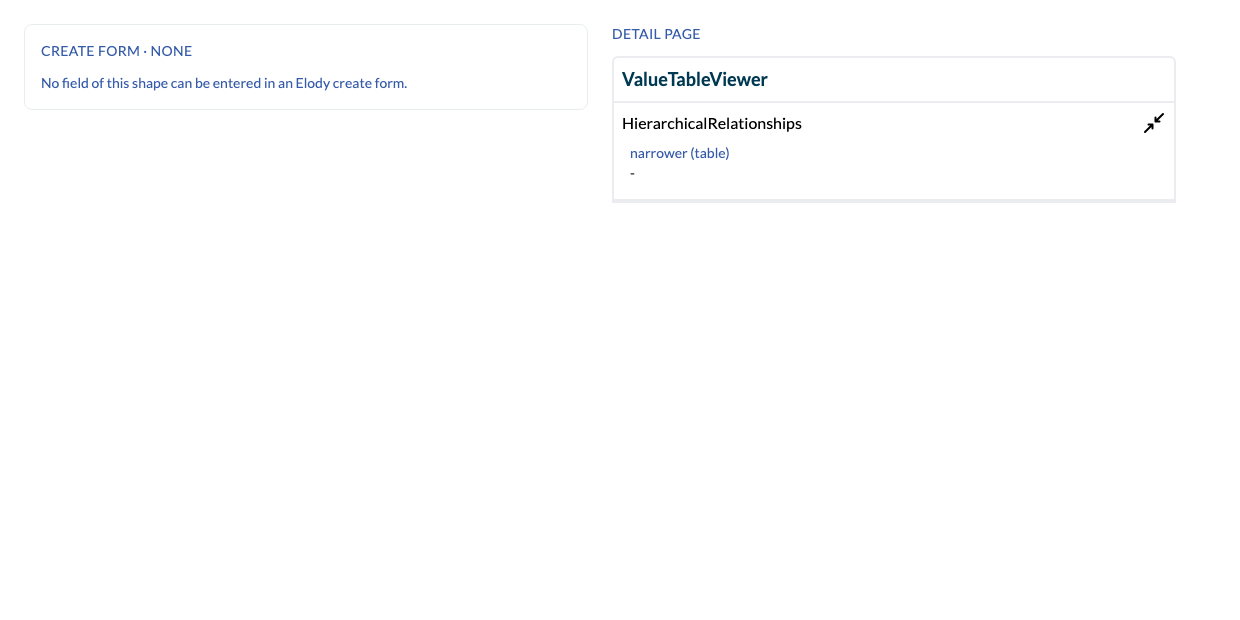
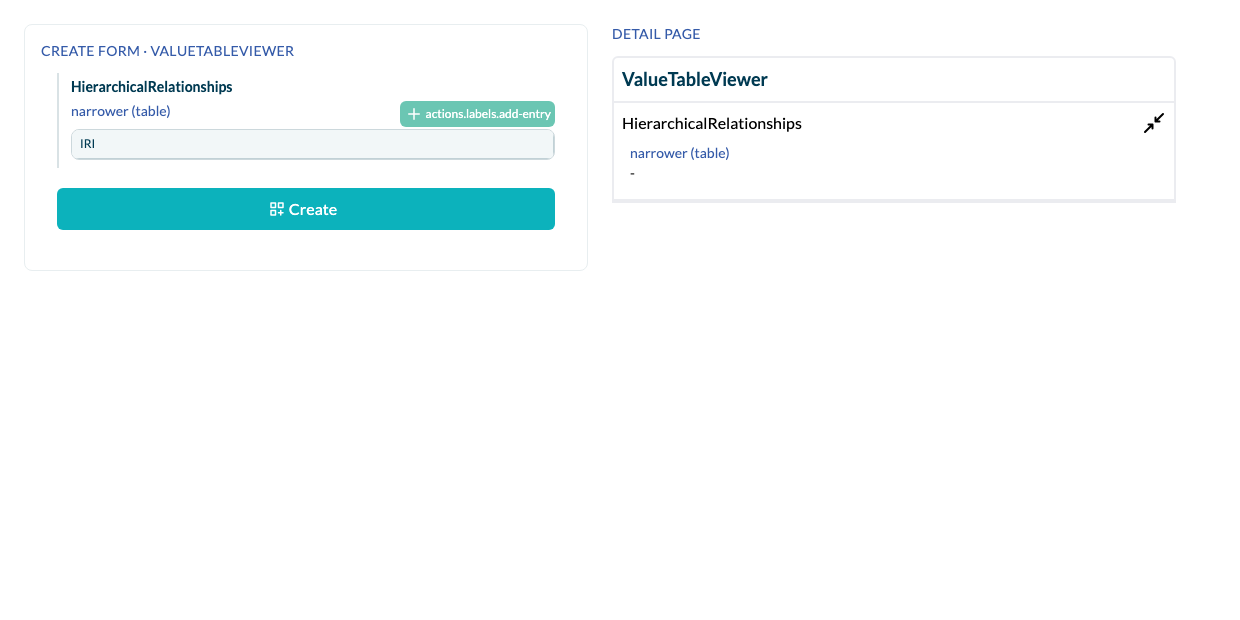
docs: example 05 rendered, inverse paths without sh:class typed as IRI

Changed region(s): [[0.0306, 0.1226, 0.4597, 0.3984], [0.1226, 0.0613, 0.2452, 0.0919]]

diff --git a/docs/services/elody-frontend/shacl-ui/examples.md b/docs/services/elody-frontend/shacl-ui/examples.md
@@ -29,7 +29,7 @@ changes.
 | [02](#example-02-getting-started) | Sample Shapes Graph | `getting-started` | <Badge type="tip" text="Rendered" /> |
 | [03](#example-03-getting-started) | Sample Data Graph with Related Resource | `getting-started` | <Badge type="tip" text="Rendered" /> |
 | [04](#example-04-global-configuration) | Sample Instance Data | `global-configuration` | <Badge type="tip" text="Rendered" /> |
-| [05](#example-05-view-predicate-paths) | Predicate and inverse paths in view mode | `view-predicate-paths` | <Badge type="warning" text="Rendered in part" /> |
+| [05](#example-05-view-predicate-paths) | Predicate and inverse paths in view mode | `view-predicate-paths` | <Badge type="tip" text="Rendered" /> |
 | [06](#example-06-view-complex-paths) | Complex paths in view mode | `view-complex-paths` | <Badge type="info" text="Left out by choice" /> |
 | [07](#example-07-edit-predicate-paths) | Predicate and inverse paths in edit mode | `edit-predicate-paths` | <Badge type="tip" text="Rendered" /> |
 | [08](#example-08-edit-alternative-paths) | Alternative paths in edit mode | `edit-alternative-paths` | <Badge type="info" text="Left out by choice" /> |
@@ -1470,14 +1470,14 @@ fragment minimalSpecExample04 on BaseEntity {
 
 ## 05 · Predicate and inverse paths in view mode {#example-05-view-predicate-paths}
 
-<Badge type="warning" text="Rendered in part" /> Spec section [`view-predicate-paths`](https://w3c.github.io/data-shapes/shacl12-ui/#view-predicate-paths)
+<Badge type="tip" text="Rendered" /> Spec section [`view-predicate-paths`](https://w3c.github.io/data-shapes/shacl12-ui/#view-predicate-paths)
 
 ![Predicate and inverse paths in view mode rendered by Elody](/images/shacl-ui/05-view-predicate-paths.png)
 
 **What Elody did with it**
 
-- *Not supported:* "Department": inverse path without sh:class; shown on the detail page, left out of the form (picking a value needs the related type)
-- *Note:* "Department" is used as the card title (the shapes declare no shui:LabelRole)
+- *Note:* "Name" is used as the card title (the shapes declare no shui:LabelRole)
+- *Note:* "Department": inverse path without sh:class: the IRI is typed in (as shui:IRIEditor) and stored as the relation's key
 
 ::: details SHACL UI shapes (from the spec)
 ````turtle
@@ -1544,7 +1544,7 @@ ui:example05-create
   a elody:Form ;
   rdfs:label "Predicate and inverse paths in view mode" ;
   elody:queryName "SpecExample05CreateForm" ;
-  elody:shape [ sh:property ui:example05-name ] ;
+  elody:shape [ sh:property ui:example05-isMemberFor , ui:example05-name ] ;
   elody:submit
     [ rdfs:label "actions.labels.create" ;
     elody:actionQuery "CreateEntity" ;
@@ -1562,13 +1562,13 @@ ui:example05-details
 
 ui:example05-isMemberFor
   sh:path [ sh:inversePath ex:member ] ;
-  sh:name "Department" ;
-  shui:propertyRole shui:LabelRole .
+  sh:name "Department" .
 
 ui:example05-name
   sh:path foaf:name ;
   sh:name "Name" ;
-  sh:datatype xsd:string .
+  sh:datatype xsd:string ;
+  shui:propertyRole shui:LabelRole .
 ````
 :::
 ::: details GraphQL (generated by `elody-ui generate`)
@@ -1661,6 +1661,13 @@ fragment minimalSpecExample05 on BaseEntity {
       label(input: "Predicate and inverse paths in view mode")
       name: formTab {
         formFields {
+          isMemberFor: metaData {
+            label(input: "Department")
+            key(input: "isMemberFor")
+            inputField(type: specExample05IsMemberForField) {
+              ...inputfield
+            }
+          }
           name: metaData {
             label(input: "Name")
             key(input: "name")
@@ -1690,6 +1697,21 @@ fragment minimalSpecExample05 on BaseEntity {
     "isMetadataField": true,
     "canCreateEntityFromOption": true,
     "multiple": true
+  },
+  "specExample05IsMemberForField": {
+    "type": "inputFieldWithSubFields",
+    "isMetadataField": false,
+    "relationType": "isMemberFor",
+    "subFields": [
+      {
+        "label": "IRI",
+        "key": "key",
+        "inputField": {
+          "type": "text",
+          "isMetadataField": false
+        }
+      }
+    ]
   }
 }
 ````
@@ -1745,7 +1767,7 @@ ex:book1 a ex:Book ;
 
 **What Elody did with it**
 
-- *Note:* "Department" is used as the card title (the shapes declare no shui:LabelRole)
+- *Note:* "Name" is used as the card title (the shapes declare no shui:LabelRole)
 
 ::: details SHACL UI shapes (from the spec)
 ````turtle
@@ -1832,13 +1854,13 @@ ui:example07-details
 ui:example07-isMemberFor
   sh:path [ sh:inversePath ex:member ] ;
   sh:name "Department" ;
-  sh:class ex:Department ;
-  shui:propertyRole shui:LabelRole .
+  sh:class ex:Department .
 
 ui:example07-name
   sh:path foaf:name ;
   sh:name "Name" ;
-  sh:datatype xsd:string .
+  sh:datatype xsd:string ;
+  shui:propertyRole shui:LabelRole .
 ````
 :::
 ::: details GraphQL (generated by `elody-ui generate`)
@@ -2258,7 +2280,7 @@ fragment minimalSpecExample10 on BaseEntity {
 
 **What Elody did with it**
 
-- *Note:* "Employer" is used as the card title (the shapes declare no shui:LabelRole)
+- *Note:* "First Name" is used as the card title (the shapes declare no shui:LabelRole)
 
 ::: details SHACL UI shapes (from the spec)
 ````turtle
@@ -2348,12 +2370,12 @@ ui:example11-details
 ui:example11-employer
   sh:path ex:employer ;
   sh:name "Employer"@en ;
-  sh:class ex:Organization ;
-  shui:propertyRole shui:LabelRole .
+  sh:class ex:Organization .
 
 ui:example11-firstName
   sh:path foaf:firstName ;
-  sh:name "First Name"@en , "Vorname"@de .
+  sh:name "First Name"@en , "Vorname"@de ;
+  shui:propertyRole shui:LabelRole .
 ````
 :::
 ::: details GraphQL (generated by `elody-ui generate`)
@@ -6422,8 +6444,8 @@ fragment minimalSpecExample30 on BaseEntity {
 **What Elody did with it**
 
 - *Not supported:* "narrower (table)": Elody has no shui:ValueTableViewer; shown as plain text
-- *Not supported:* "narrower (table)": inverse path without sh:class; shown on the detail page, left out of the form (picking a value needs the related type)
 - *Note:* "narrower (table)" is used as the card title (the shapes declare no shui:LabelRole)
+- *Note:* "narrower (table)": inverse path without sh:class: the IRI is typed in (as shui:IRIEditor) and stored as the relation's key
 
 ::: details SHACL UI shapes (from the spec)
 ````turtle
@@ -6506,6 +6528,7 @@ ui:example31
         elody:panel skos:HierarchicalRelationships ] ;
       elody:size elody:Width100 ] ] ;
   elody:documentName "SpecExample31" ;
+  elody:form ui:example31-create ;
   elody:viewMode [ elody:mode elody:ListView ] .
 
 ex:Concept-broader-inverse
@@ -6557,6 +6580,17 @@ skos:HierarchicalRelationships
   elody:alias "hierarchicalRelationships" ;
   elody:collapsed false ;
   elody:panelKind elody:MetadataPanel .
+
+ui:example31-create
+  a elody:Form ;
+  rdfs:label "ValueTableViewer" ;
+  elody:queryName "SpecExample31CreateForm" ;
+  elody:shape [ sh:property ex:Concept-broader-inverse ] ;
+  elody:submit
+    [ rdfs:label "actions.labels.create" ;
+    elody:actionQuery "CreateEntity" ;
+    elody:creationType "BaseEntity" ;
+    elody:icon "Create" ] .
 ````
 :::
 ::: details GraphQL (generated by `elody-ui generate`)
@@ -6630,6 +6664,57 @@ fragment minimalSpecExample31 on BaseEntity {
       }
     }
   }
+
+  query SpecExample31CreateForm {
+    GetDynamicForm {
+      label(input: "ValueTableViewer")
+      name: formTab {
+        formFields {
+          hierarchicalRelationshipsSection: formSection {
+            label(input: "HierarchicalRelationships")
+            formFields {
+              isBroaderFor: metaData {
+                label(input: "narrower (table)")
+                key(input: "isBroaderFor")
+                inputField(type: specExample31IsBroaderForField) {
+                  ...inputfield
+                }
+              }
+            }
+          }
+          createAction: action {
+            label(input: "actions.labels.create")
+            icon(input: Create)
+            actionType(input: submit)
+            actionQuery(input: "CreateEntity")
+            creationType(input: BaseEntity)
+            showsFormErrors(input: true)
+          }
+        }
+      }
+    }
+  }
+````
+:::
+::: details Generated custom input fields
+````json
+{
+  "specExample31IsBroaderForField": {
+    "type": "inputFieldWithSubFields",
+    "isMetadataField": false,
+    "relationType": "isBroaderFor",
+    "subFields": [
+      {
+        "label": "IRI",
+        "key": "key",
+        "inputField": {
+          "type": "text",
+          "isMetadataField": false
+        }
+      }
+    ]
+  }
+}
 ````
 :::
 

diff --git a/docs/services/elody-frontend/shacl-ui/index.md b/docs/services/elody-frontend/shacl-ui/index.md
@@ -51,7 +51,7 @@ and checked in CI.
 | Labels | `sh:name`, `shui:labelPreference`, `rdfs:label` on groups and values, `shui:LabelRole` | Property labels follow the spec's chain: the label properties (`shui:labelPreference`, default `sh:name`) on the property shape, then on the predicate in the data and the shapes graph, then the predicate's local name. They are resolved when generating and go, in every language, to the client's translation bundles under an Elody translation key. A related entity is labelled by the `shui:LabelRole` property of its class's node shape, then the label properties (default `rdfs:label`), then Elody's `title` and `name`, in the reading language, else by the local name of its IRI; the IRIs of an `sh:in` list by their labels in the shapes graph. |
 | Ordering | `sh:order`, `sh:group`, `shui:defaultOrder` | Groups and ungrouped properties in one sequence, unordered last, ties by metadata key, then identifier; `shui:defaultOrder` from the global configuration. |
 | Groups | `sh:PropertyGroup` | Each group is a panel on the detail page and a titled section of the create form (`formSection`). Groups and ungrouped properties are one sequence; an ungrouped property stays a plain form field and is shown in a "Details" panel (`elody:showsUngrouped`). |
-| Paths | predicate paths, `sh:inversePath` | A predicate path is a metadata key, or a relation when the values are instances of a class (`sh:class`, relation `has<X>`). An inverse path is the mirrored relation on the entity (`is<X>For`): shown on the detail page, and a relation dropdown when the shape has `sh:class`. collection-api keeps that mirror on its classic storage path; an entity type with an object configuration switches it on with `RelationMirroring` (see [conformance](./conformance.md), rows 31 and 32). `elody:relationType` names the relation when the client uses another name; `elody:valueLabelKey` the related entity's label metadata. |
+| Paths | predicate paths, `sh:inversePath` | A predicate path is a metadata key, or a relation when the values are instances of a class (`sh:class`, relation `has<X>`). An inverse path is the mirrored relation on the entity (`is<X>For`): shown on the detail page by the related entity's label; in the create form a relation dropdown when the shape has `sh:class`, else a field where the IRI is typed in (as `shui:IRIEditor`), stored as the relation's key. collection-api keeps that mirror on its classic storage path; an entity type with an object configuration switches it on with `RelationMirroring` (see [conformance](./conformance.md), rows 31 and 32). `elody:relationType` names the relation when the client uses another name; `elody:valueLabelKey` the related entity's label metadata. |
 | Language preference | `sh:languageIn` | The spec's order: the label and the value in the first language of `sh:languageIn` that has one, then the interface language. Labels are resolved when generating (every translation bundle gets the text in that order); values in the PWA, which also offers only the declared languages in the field's language selector. Tags match by basic filtering (`en-US` for `en`). |
 | Editing and value preservation | `dash:readOnly`, `sh:minCount` | The detail panels are editable: each writable property is edited with the create form's widget, and a save writes back only what changed. Values the form does not show, every language of a multilingual field and the values of an unbounded property are kept, each in its own type. Relation-valued properties (with `sh:class`, also behind an inverse path) are edited with the same relation dropdown as in the create form, and a change updates the mirrored relation on the other entity; `dash:readOnly` keeps a property read-only. |
 | Cardinality | `sh:minCount`, `sh:maxCount` | `sh:minCount 1` makes a field required. A property without `sh:maxCount 1` may hold several values: a text property becomes a field holding a list of texts, new values typed in (SHACL UI repeats the text editor per value; Elody uses one field, generated per property), and a dropdown allows several choices. |
@@ -79,8 +79,8 @@ subset and ignores the rest.
 
 | Result | Examples |
 |---|---|
-| Rendered | 26 |
-| Rendered in part | 5 |
+| Rendered | 27 |
+| Rendered in part | 4 |
 | Left out by choice | 3 |
 
 Every generated document is valid against the platform schema, and all of them

diff --git a/docs/services/elody-frontend/shacl-ui/conformance.md b/docs/services/elody-frontend/shacl-ui/conformance.md
@@ -83,7 +83,7 @@ resolved at run time. See [SHACL UI in Elody](./) for the pipeline.
 | 29 | Widget switching | Optional | ❌ | The widget is fixed per field. |
 | 30 | Value preservation | Required | ✅ | Existing values are shown, including unbounded ones, and a save keeps every value it does not change, every language and each value's type (round trip below). Values of an unbounded property are a set: collection-api stores them sorted. |
 | 31 | Predicate and inverse paths — view | Required | ✅ | A predicate path is a metadata key or a relation. An inverse path reads the mirrored relation on the entity (`is<X>For`). collection-api keeps mirrors on its classic storage path; an entity type with an object configuration switches them on with `RelationMirroring` (DiSHACLed's `entity` does). |
-| 32 | Predicate and inverse paths — edit | Required | ✅ | Predicate paths and, with `sh:class`, inverse paths are edited on the detail page and in the create form with a relation dropdown. Adding or removing an inverse-path value updates the mirror on the other entity (round trip below), with the same condition as 31. |
+| 32 | Predicate and inverse paths — edit | Required | ✅ | Predicate paths and, with `sh:class`, inverse paths are edited on the detail page and in the create form with a relation dropdown. Without `sh:class` Elody has no type to search: the create form takes the IRI typed in (as `shui:IRIEditor`), stored as the relation's key, and the detail page shows the related entity by its label. Adding or removing an inverse-path value updates the mirror on the other entity (round trip below), with the same condition as 31. |
 | 33 | Alternative paths — view | Recommended | ❌ | Left out by choice: Elody keeps view and edit symmetric, which the specification allows for complex paths in view mode (see [complex paths](./#complex-paths-view-and-edit-symmetry)). |
 | 34 | Alternative paths — edit | Recommended | ❌ | Follows from 33: a field Elody does not show, it does not edit. |
 | 35 | Complex paths — view | Recommended | ❌ | As 33. |
@@ -98,7 +98,7 @@ Every ✅ is backed by a test that runs in `modules/uiDeclarationModule`:
 - **The specification's examples.** All 34 examples of the Editor's Draft go
   through the whole pipeline; the [spec examples](./examples.md) page shows the
   declaration, the GraphQL, the result of baseGraphql's own resolvers and a
-  screenshot for each. 26 render fully, 5 in part, and 3 are left out by choice (alternative and
+  screenshot for each. 27 render fully, 4 in part, and 3 are left out by choice (alternative and
   complex paths).
 - **Unit tests** for each feature: scoring on the official scoring graph,
   ordering, groups and form sections, roles, `sh:languageIn`, multilingual and
